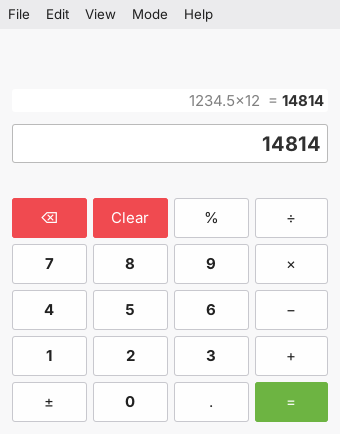
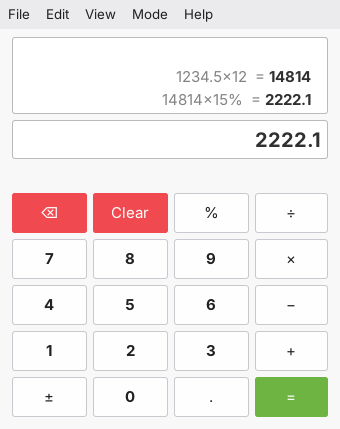
New screenshots of every mode, in Mint-Y
The screenshots were from 0.9; these show the history box and the
Currency Converter, and the README now shows all six modes.

Claude-Session: https://claude.ai/code/session_01Sdn4zG3C3mhUhhAjLKdcXn

diff --git a/README.md b/README.md
@@ -26,9 +26,13 @@ can have up to 50 decimal places.
 Press **F1** in the app for the documentation, and **Ctrl+F1** for the keyboard
 shortcuts.
 
-| Basic | Programmer | Unit Converter |
+| Basic | Financial | Programmer |
 |---|---|---|
-| ![Basic](screenshots/basic.png) | ![Programmer](screenshots/programmer.png) | ![Unit Converter](screenshots/unit-converter.png) |
+| ![Basic](screenshots/basic.png) | ![Financial](screenshots/financial.png) | ![Programmer](screenshots/programmer.png) |
+
+| Unit Converter | Currency Converter |
+|---|---|
+| ![Unit Converter](screenshots/unit-converter.png) | ![Currency Converter](screenshots/currency-converter.png) |
 
 ## Install
 
